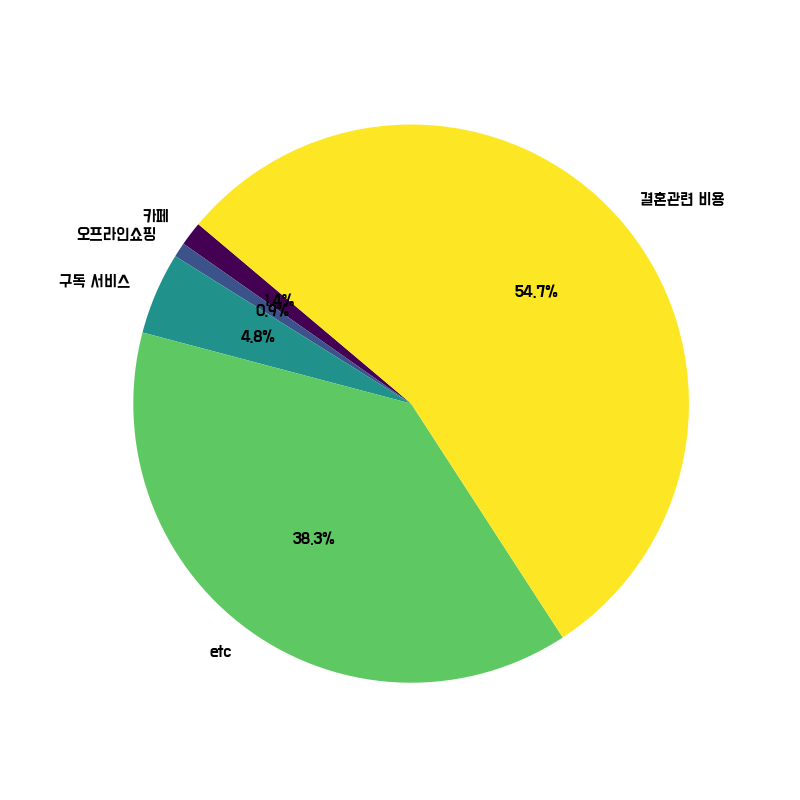
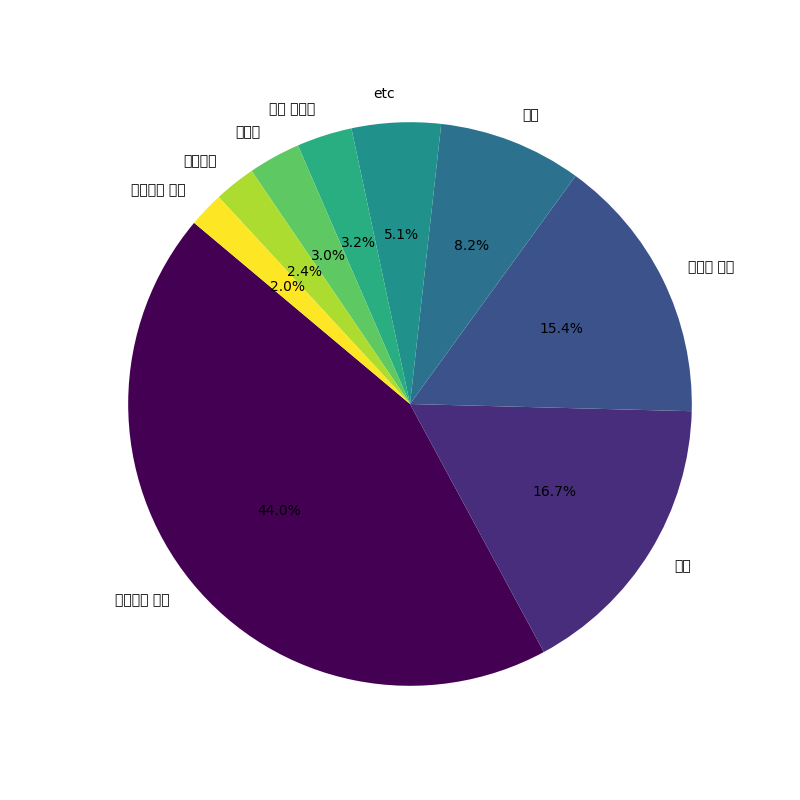
2024-07-12
2024-07-12

diff --git a/utils/matplot_util.py b/utils/matplot_util.py
@@ -66,10 +66,10 @@ def visualize_cosume_res_single(consume_list, totals_cost, start_date, end_date)
 
 
 # Function that graphs consumption by category.
-def visualize_consume_res_by_category(consume_type_info_list):
+def visualize_consume_res_by_category(category_labels, category_size_labels):
 
-    category_labels = [consume_type_info.keyword_type for consume_type_info in consume_type_info_list]
-    category_size_labels = [consume_type_info.keyword_cost for consume_type_info in consume_type_info_list]
+    #category_labels = [consume_type_info.keyword_type for consume_type_info in consume_type_info_list]
+    #category_size_labels = [consume_type_info.keyword_cost for consume_type_info in consume_type_info_list]
 
     draw_circle_graph(category_size_labels, category_labels, False, 140, './data/img/category_plot.png')
 

diff --git a/controller.py b/controller.py
@@ -1,6 +1,8 @@
 from utils.common_util import *
+from utils.matplot_util import *
 from import_data import *
 from config import global_logger
+
 
 # Graph related font settings. - Globally set.
 font_prop = font_manager.FontProperties(fname="./data/font/BMDOHYEON_ttf.ttf").get_name()
@@ -12,7 +14,15 @@ app = Flask(__name__)
 def run_app():
     
     data = request.get_json()
-
+    
     print(data)
+    category_labels = data["title_vec"]
+    category_size_labels = data["cost_vec"]
+
+    visualize_consume_res_by_category(category_labels, category_size_labels)
+    #print(data["title_vec"])
+    #print(data[""])
 
     global_logger.info("Python Telegram Bot Stop")
+
+    return jsonify(data), 200

diff --git a/main.py b/main.py
@@ -8,6 +8,6 @@ History     : 2024-07-11 Seunghwan Shin       # first creat
 from controller import *
 
 if __name__ == "__main__":
-    app.run(debug=True, port=5000)
+    app.run(debug=True, port=5800)
 
 
